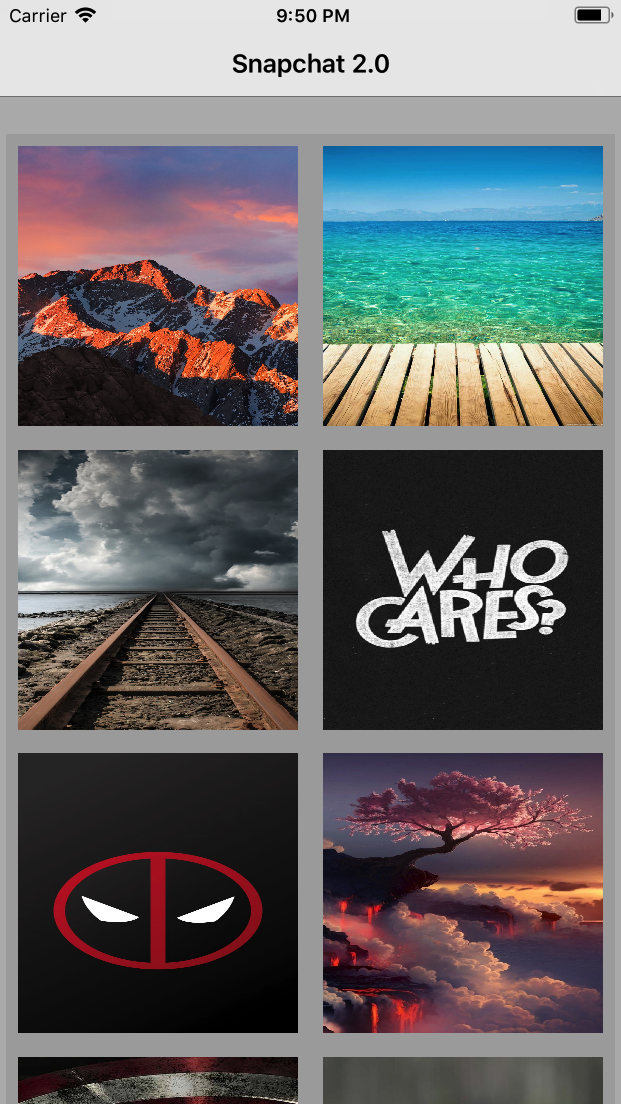
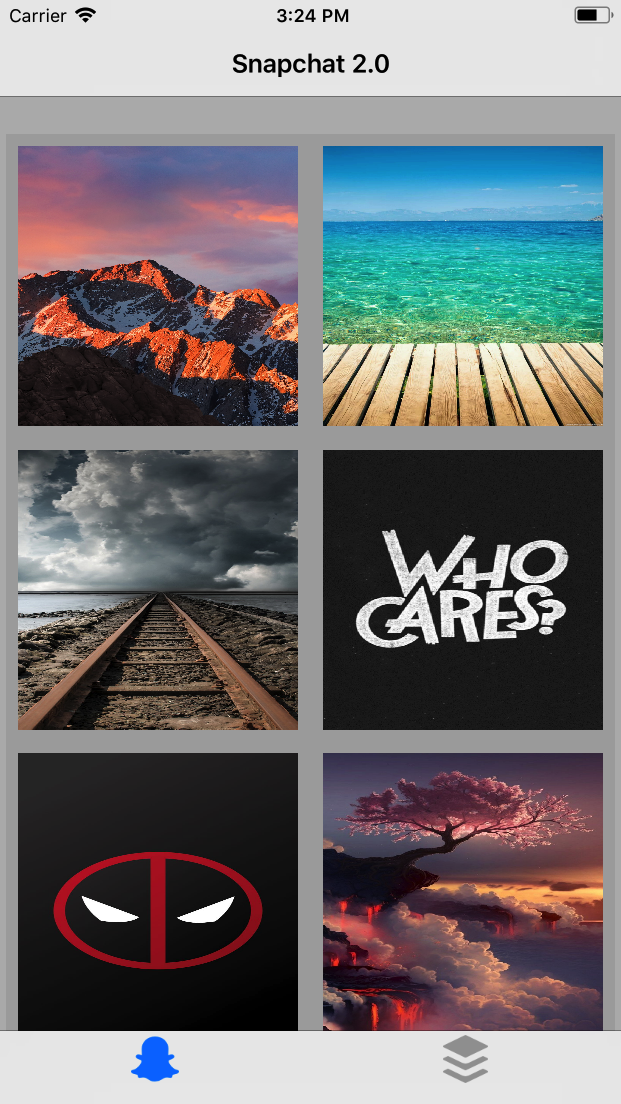
add tab bar controller question

Changed region(s): [[0.0, 0.9239, 1.0, 1.0], [0.4589, 0.0, 0.5507, 0.0308]]

diff --git a/README.md b/README.md
@@ -4,6 +4,8 @@ In today's lab, we'll be creating a simple multiview app using navigation contro
 
 ![alt text](/README-images/previewSnap.png)
 
+This lab will build the basics for your snapChat project. It aims to help you learn more about navigation controllers and tab bar controllers.
+
 To get started, first clone this repository onto your own computer:
 	
 	git clone https://github.com/iosdecal/ios-decal-lab3
@@ -32,11 +34,21 @@ Creating a view in the storyboard with only an image and a button in it. Using a
 ## Question 2 - Connecting Views ##
 ### Question 2: part 1 ###
 
-Create a navigation convtroller view in the storyboard and then create a segue from the navigation controller to the `Snapchat 2.0` view. 
+Create a navigation controller view in the storyboard and then create a segue from the navigation controller to the `Snapchat 2.0` view. 
 
 ### Question 2: part 2 ###
 
 Create a segue from `Snapchat 2.0` to `Image Preview Controller` and give the segue a name.
+
+### Question 2: part 3 ###
+
+Create a tab bar controller view in the storyboard and a new blank view. Connect the tab bar controller to the blank view and the navigation controller view. If you connect them correctly, you should see two tabs at the bottom of the tab bar controller view. 
+
+The default tab icons are not visually helpful for users. Customize the tab icons so that it looks like the image in the Overview section.
+
+Notes: 
+1. We've provided the icons in the Assets, so don't need to donwload one or create your own icons.
+2. The blank view is just a placeholder. Don't worry. You'll build more stuff in the snapChat project. 
 
 ## Question 3 - View Transition ##
 
@@ -45,7 +57,7 @@ Now we have the storyboard structure ready. We need to implement the underlying 
 ### part 1: Prepare for segue ###
 Whenever a user taps an image in the initial screen, we want the app to show the selected image in a new view. 
 
-The new view creation we've done in Q1 but we have not implemented the transistion to the new view and a way for the new view to know which image to display. In this part, you'll need to implement to achieve those 2 goals. You'll need to edit both `imagePickerController.swift` and `imagePreviewController.swift`.
+The new view creation we've done in Q1 but we have not implemented the transition to the new view and a way for the new view to know which image to display. In this part, you'll need to implement to achieve those 2 goals. You'll need to edit both `imagePickerController.swift` and `imagePreviewController.swift`.
 
 In `imagePickerController.swift`, we've abstracted away the collection view and given you the method, which will get called everytime the user taps an image - Feel free to add any other methods or instance variables you may need:
 
